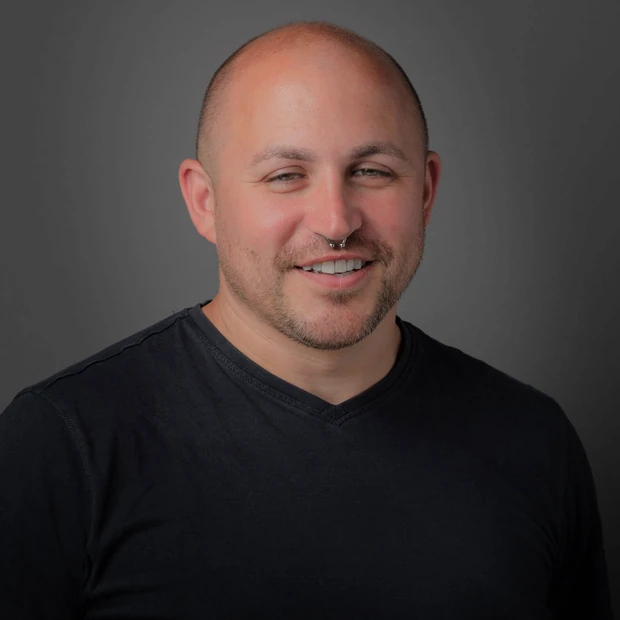
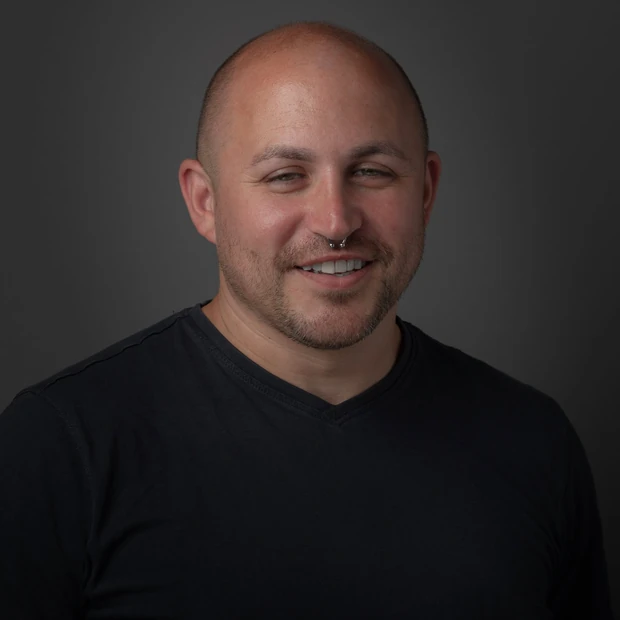
Full Colour: drifting gradient field behind John, inked CTAs, a11y pass
The rainbow rule above the hero floor is gone. The floor is now a linear ramp
with three radial pools laid over it, each drifting on its own very slow cycle
(96s, 118s, 140s, offset and alternating) so the colour has grain and a little
movement without ever asking to be watched. Transform-driven, so it composites
on the GPU, and it stops dead under prefers-reduced-motion.

The CTAs keep their gradient but lose the product-button look: two neighbouring
hues instead of a three-hue spectrum, near-vertical rather than diagonal, a soft
printed highlight over the top, and squared corners instead of a pill. The ramp
rests off-centre and travels across on hover, easing back on leave — the
movement is the feedback rather than a colour swap.

Accessibility pass over every text node on the page, at 390 and 1280: 132
checked, no failures. Four flags were the checker misreading gradients, and both
were verified by hand instead: the white label over the CTA ink measures 5.20:1
at the brightest point of its highlight (eased from 22% to 18% for margin), and
the gradient headline's stops measure 5.76 to 8.78:1 on cream.

docs/source-assets/john-dark-levelled.png is now the untouched frame, straight
off his old site with no treatment, for Ole to grade. Note that the round
portrait therefore ships ungraded until that file is replaced — the script uses
it verbatim by design.

Changed region(s): [[0.1226, 0.0, 0.7968, 0.6742]]

diff --git a/design/full-colour.html b/design/full-colour.html
@@ -19,6 +19,10 @@
   --grad:linear-gradient(103deg,#b3341f 0%,#a8235f 46%,#5b2f8f 100%);
   --spectrum:linear-gradient(90deg,#e04a2f,#d98314,#0f7d78,#c02a72,#6d3ba8);
   --grad-soft:linear-gradient(103deg,#e04a2f 0%,#c02a72 46%,#6d3ba8 100%);
+  /* CTA ink: two neighbouring hues only, near-vertical, with a soft radial
+     highlight laid over it. Worst stop is 7.41:1 against white. */
+  --cta-ink:radial-gradient(120% 160% at 22% 10%,rgba(255,255,255,.18),rgba(255,255,255,0) 58%),
+            linear-gradient(168deg,#a01e5c 0%,#6d2f8a 100%);
   --container:1140px; --section:100px;
   --display:'Bricolage Grotesque',ui-sans-serif,system-ui,sans-serif;
   --sans:'Instrument Sans',ui-sans-serif,system-ui,sans-serif;
@@ -48,9 +52,10 @@ header::after{content:"";display:block;height:3px;background:var(--grad-soft)}
 nav{margin-left:auto;display:flex;gap:24px;min-width:0}
 nav a{font-size:16px;text-decoration:none;color:var(--muted);font-weight:500;white-space:nowrap;display:none}
 nav a:hover{color:var(--clay-dk)}
-.headcta{margin-left:auto;display:inline-flex;align-items:center;background:var(--grad);color:#fff;
+.headcta{margin-left:auto;display:inline-flex;align-items:center;color:#fff;
+  background-image:var(--cta-ink);background-size:100% 230%;background-position:50% 0%;
   text-decoration:none;font-weight:600;font-size:16px;padding:11px 20px;white-space:nowrap;flex:none;
-  border-radius:999px}
+  border-radius:6px;transition:background-position 1.1s cubic-bezier(.33,0,.2,1)}
 .headcta:hover{filter:brightness(1.08)}
 .cta-long{display:none}
 @media(min-width:430px){.cta-short{display:none}.cta-long{display:inline}}
@@ -60,14 +65,27 @@ nav a:hover{color:var(--clay-dk)}
 @media(min-width:1080px){nav a[data-nav="faq"]{display:inline}.headcta{margin-left:0}}
 
 /* hero — type-led, no cards, no boxes anywhere on this page */
-/* Colour arrives as a flat, hard-edged floor he stands on — a printed poster,
-   not a blurred mesh. The horizon crosses at chest height so his face stays on
-   the warm cream and the saturated colour carries the bottom of the page. */
+/* The floor he stands on: a linear ramp with two radial pools laid over it, so
+   the colour has some grain and depth rather than reading as one flat sweep.
+   The pools drift very slowly — 96s and 140s, offset, so the movement is felt
+   rather than watched. Nothing moves for anyone who has asked it not to. */
 .hero{position:relative;isolation:isolate;background:var(--cream);padding:calc(var(--section)*.6) 0 0;overflow:clip}
 .hero .floor{position:absolute;left:0;right:0;bottom:0;height:34%;z-index:-1;pointer-events:none;
-  background:var(--grad)}
-.hero .floor::after{content:"";position:absolute;left:0;right:0;top:0;height:6px;
-  background:var(--spectrum)}
+  overflow:hidden;background:var(--grad)}
+.hero .floor span{position:absolute;display:block;will-change:transform}
+.hero .floor .g1{inset:-70% -40% -40% -30%;
+  background:radial-gradient(closest-side,rgba(224,74,47,.85),rgba(224,74,47,.28) 55%,transparent 78%);
+  animation:drift1 96s ease-in-out infinite alternate}
+.hero .floor .g2{inset:-40% -35% -60% -10%;
+  background:radial-gradient(closest-side,rgba(109,59,168,.8),rgba(109,59,168,.3) 52%,transparent 76%);
+  animation:drift2 140s ease-in-out infinite alternate}
+.hero .floor .g3{inset:-30% -50% -30% 20%;
+  background:radial-gradient(closest-side,rgba(217,131,20,.42),transparent 70%);
+  animation:drift3 118s ease-in-out infinite alternate}
+@keyframes drift1{from{transform:translate3d(-6%,4%,0) scale(1)}to{transform:translate3d(9%,-3%,0) scale(1.18)}}
+@keyframes drift2{from{transform:translate3d(7%,-5%,0) scale(1.1)}to{transform:translate3d(-8%,6%,0) scale(.94)}}
+@keyframes drift3{from{transform:translate3d(4%,6%,0) scale(1.05)}to{transform:translate3d(-6%,-4%,0) scale(1.22)}}
+@media(prefers-reduced-motion:reduce){.hero .floor span{animation:none}}
 @media(max-width:899px){.hero .floor{height:26%}}
 .heroGrid{display:grid;gap:32px;align-items:end}
 @media(min-width:900px){.heroGrid{grid-template-columns:1.08fr .92fr;gap:48px}}
@@ -76,9 +94,17 @@ nav a:hover{color:var(--clay-dk)}
 .hero .lede{font-size:clamp(18px,2.1vw,22px);color:var(--muted);max-width:46ch;margin:26px 0 0}
 .actions{display:flex;flex-wrap:wrap;gap:12px;margin-top:34px}
 .btn{display:inline-flex;align-items:center;text-decoration:none;font-weight:600;font-size:17px;
-  padding:15px 28px;border:2px solid transparent;border-radius:999px;white-space:nowrap}
-.btn-primary{background:var(--grad);color:#fff}
-.btn-primary:hover{filter:brightness(1.08)}
+  padding:15px 28px;border:2px solid transparent;border-radius:6px;white-space:nowrap}
+/* The gradient rests off to one side and travels across on hover, then eases
+   back when the pointer leaves — the movement is the feedback, not a colour
+   swap. Every stop of the ramp clears AA against white (6.13 to 8.78:1), so the
+   label is legible at any point in the travel. */
+.btn-primary{color:#fff;background-image:var(--cta-ink);background-size:100% 230%;background-position:50% 0%;
+  transition:background-position 1.1s cubic-bezier(.33,0,.2,1)}
+.btn-primary:hover,.btn-primary:focus-visible{background-position:50% 100%}
+.surface .btn-primary{background-image:none;background-color:#fff;color:var(--sf)}
+.surface .btn-primary:hover{background-color:var(--hd)}
+@media(prefers-reduced-motion:reduce){.headcta,.btn-primary{transition:none}}
 .btn-ghost{border-color:var(--ink);color:var(--ink)}
 .btn-ghost:hover{background:var(--oat)}
 .reassure{margin-top:20px;font-size:16px;color:var(--muted);max-width:46ch;padding-bottom:8px}
@@ -258,7 +284,7 @@ footer a{color:#efe2ea}
 <div id="top"></div>
 
 <section class="hero">
-  <div class="floor" aria-hidden="true"></div>
+  <div class="floor" aria-hidden="true"><span class="g1"></span><span class="g2"></span><span class="g3"></span></div>
   <div class="wrap heroGrid">
     <div>
       <p class="kicker">Bletchley, Milton Keynes &middot; and online</p>
@@ -273,7 +299,7 @@ footer a{color:#efe2ea}
         whichever feels easiest today.</p>
     </div>
     <figure class="heroFig">
-      <img src="assets/john-cutout.webp?v7" alt="John Goss" width="1800" height="1452" fetchpriority="high">
+      <img src="assets/john-cutout.webp?v8" alt="John Goss" width="1800" height="1452" fetchpriority="high">
     </figure>
   </div>
 </section>
@@ -378,7 +404,7 @@ footer a{color:#efe2ea}
         <a class="more" href="/about">More about me and how I work</a>
       </div>
       <figure class="aboutPhoto">
-        <img src="assets/john-portrait-round.webp?v7" alt="John Goss" width="620" height="620" loading="lazy">
+        <img src="assets/john-portrait-round.webp?v8" alt="John Goss" width="620" height="620" loading="lazy">
       </figure>
     </div>
   </div>

diff --git a/design/quiet-practice.html b/design/quiet-practice.html
@@ -210,7 +210,7 @@ footer a{color:#d7e2dc}
         we'll find a time to talk. You'll be speaking to me, not to a receptionist.</p>
     </div>
     <figure class="portrait">
-      <span class="cutframe"><img src="assets/john-cutout.webp?v7" alt="John Goss" width="1800" height="1452" fetchpriority="high"></span>
+      <span class="cutframe"><img src="assets/john-cutout.webp?v8" alt="John Goss" width="1800" height="1452" fetchpriority="high"></span>
       <figcaption>John Goss — NCPS Accredited Member, COSRT member.</figcaption>
     </figure>
   </div>
@@ -279,7 +279,7 @@ footer a{color:#d7e2dc}
     </div>
     </div>
     <figure class="aboutPhoto">
-      <img src="assets/john-portrait-round.webp?v7" alt="John Goss" width="620" height="620" loading="lazy">
+      <img src="assets/john-portrait-round.webp?v8" alt="John Goss" width="620" height="620" loading="lazy">
     </figure>
   </div>
 </section>

diff --git a/design/clear-water.html b/design/clear-water.html
@@ -224,7 +224,7 @@ footer a{color:#d3e6ea}
         directly — you'll be speaking to me, not to a receptionist.</p>
     </div>
     <figure class="heroFig">
-      <img src="assets/john-cutout-dark.webp?v7" alt="John Goss" width="1800" height="1452" fetchpriority="high">
+      <img src="assets/john-cutout-dark.webp?v8" alt="John Goss" width="1800" height="1452" fetchpriority="high">
     </figure>
   </div>
 </section>
@@ -313,7 +313,7 @@ footer a{color:#d3e6ea}
       </div>
     </div>
     <figure class="aboutPhoto">
-      <img src="assets/john-portrait-round.webp?v7" alt="John Goss" width="620" height="620" loading="lazy">
+      <img src="assets/john-portrait-round.webp?v8" alt="John Goss" width="620" height="620" loading="lazy">
     </figure>
   </div>
 </section>
